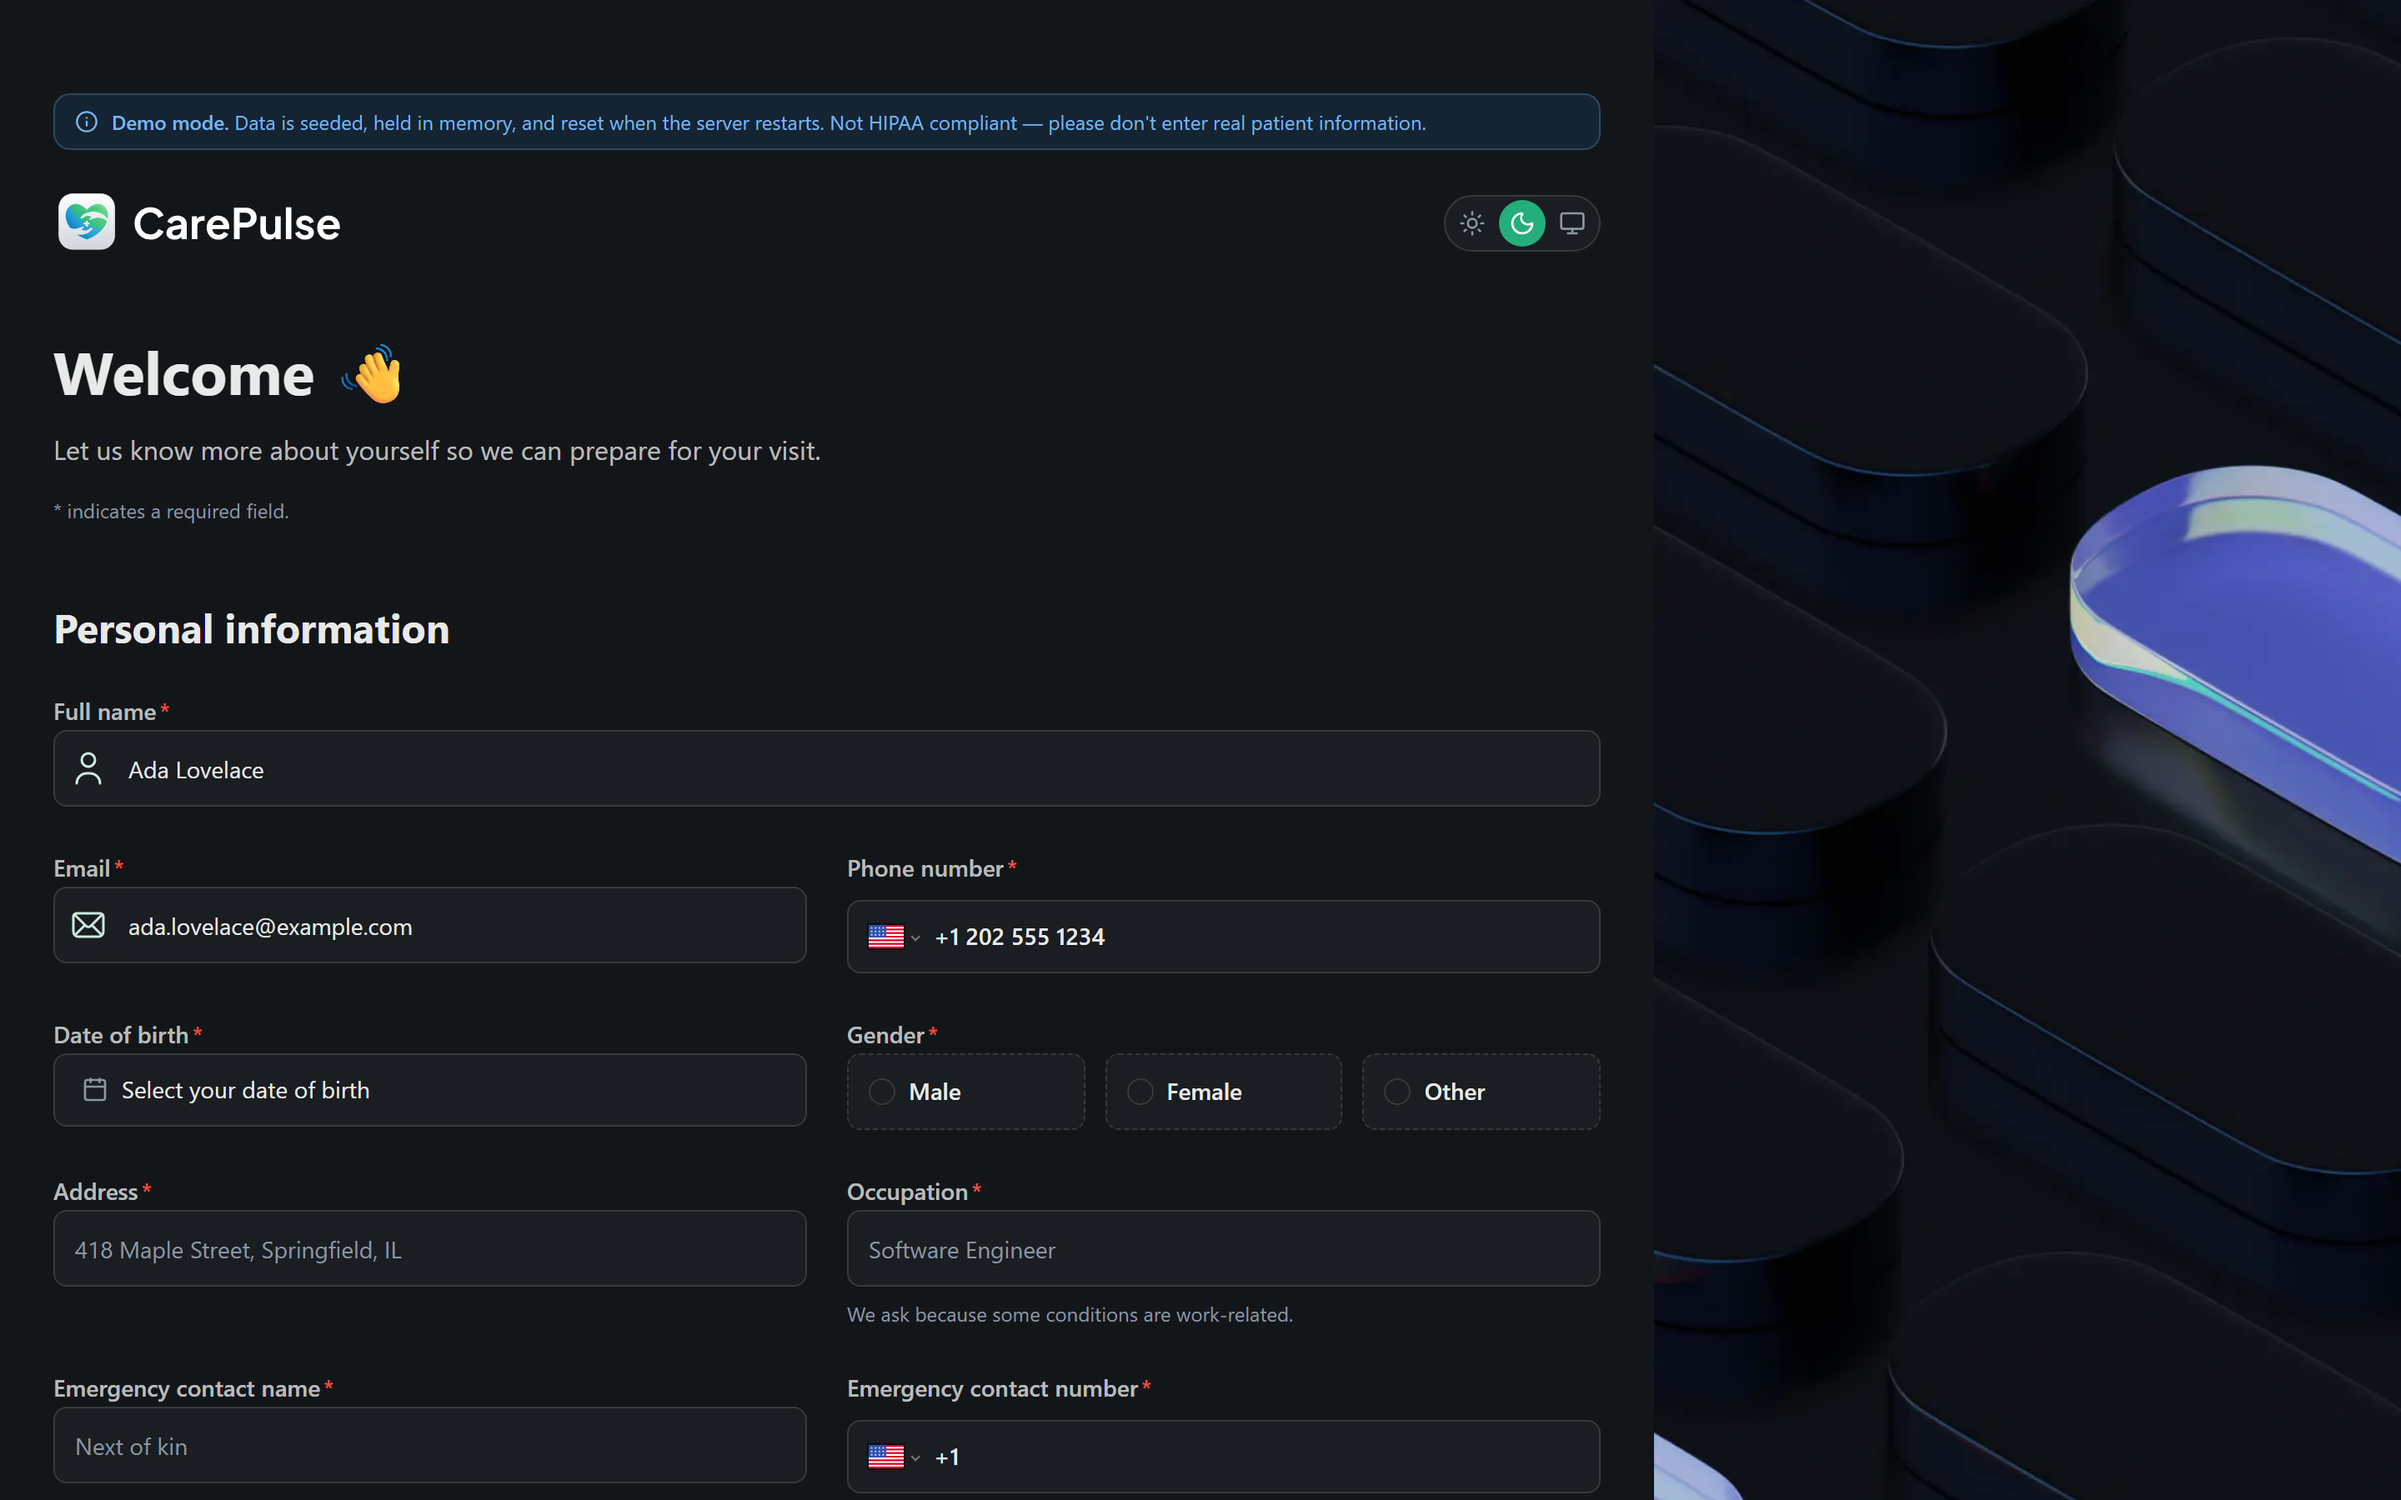
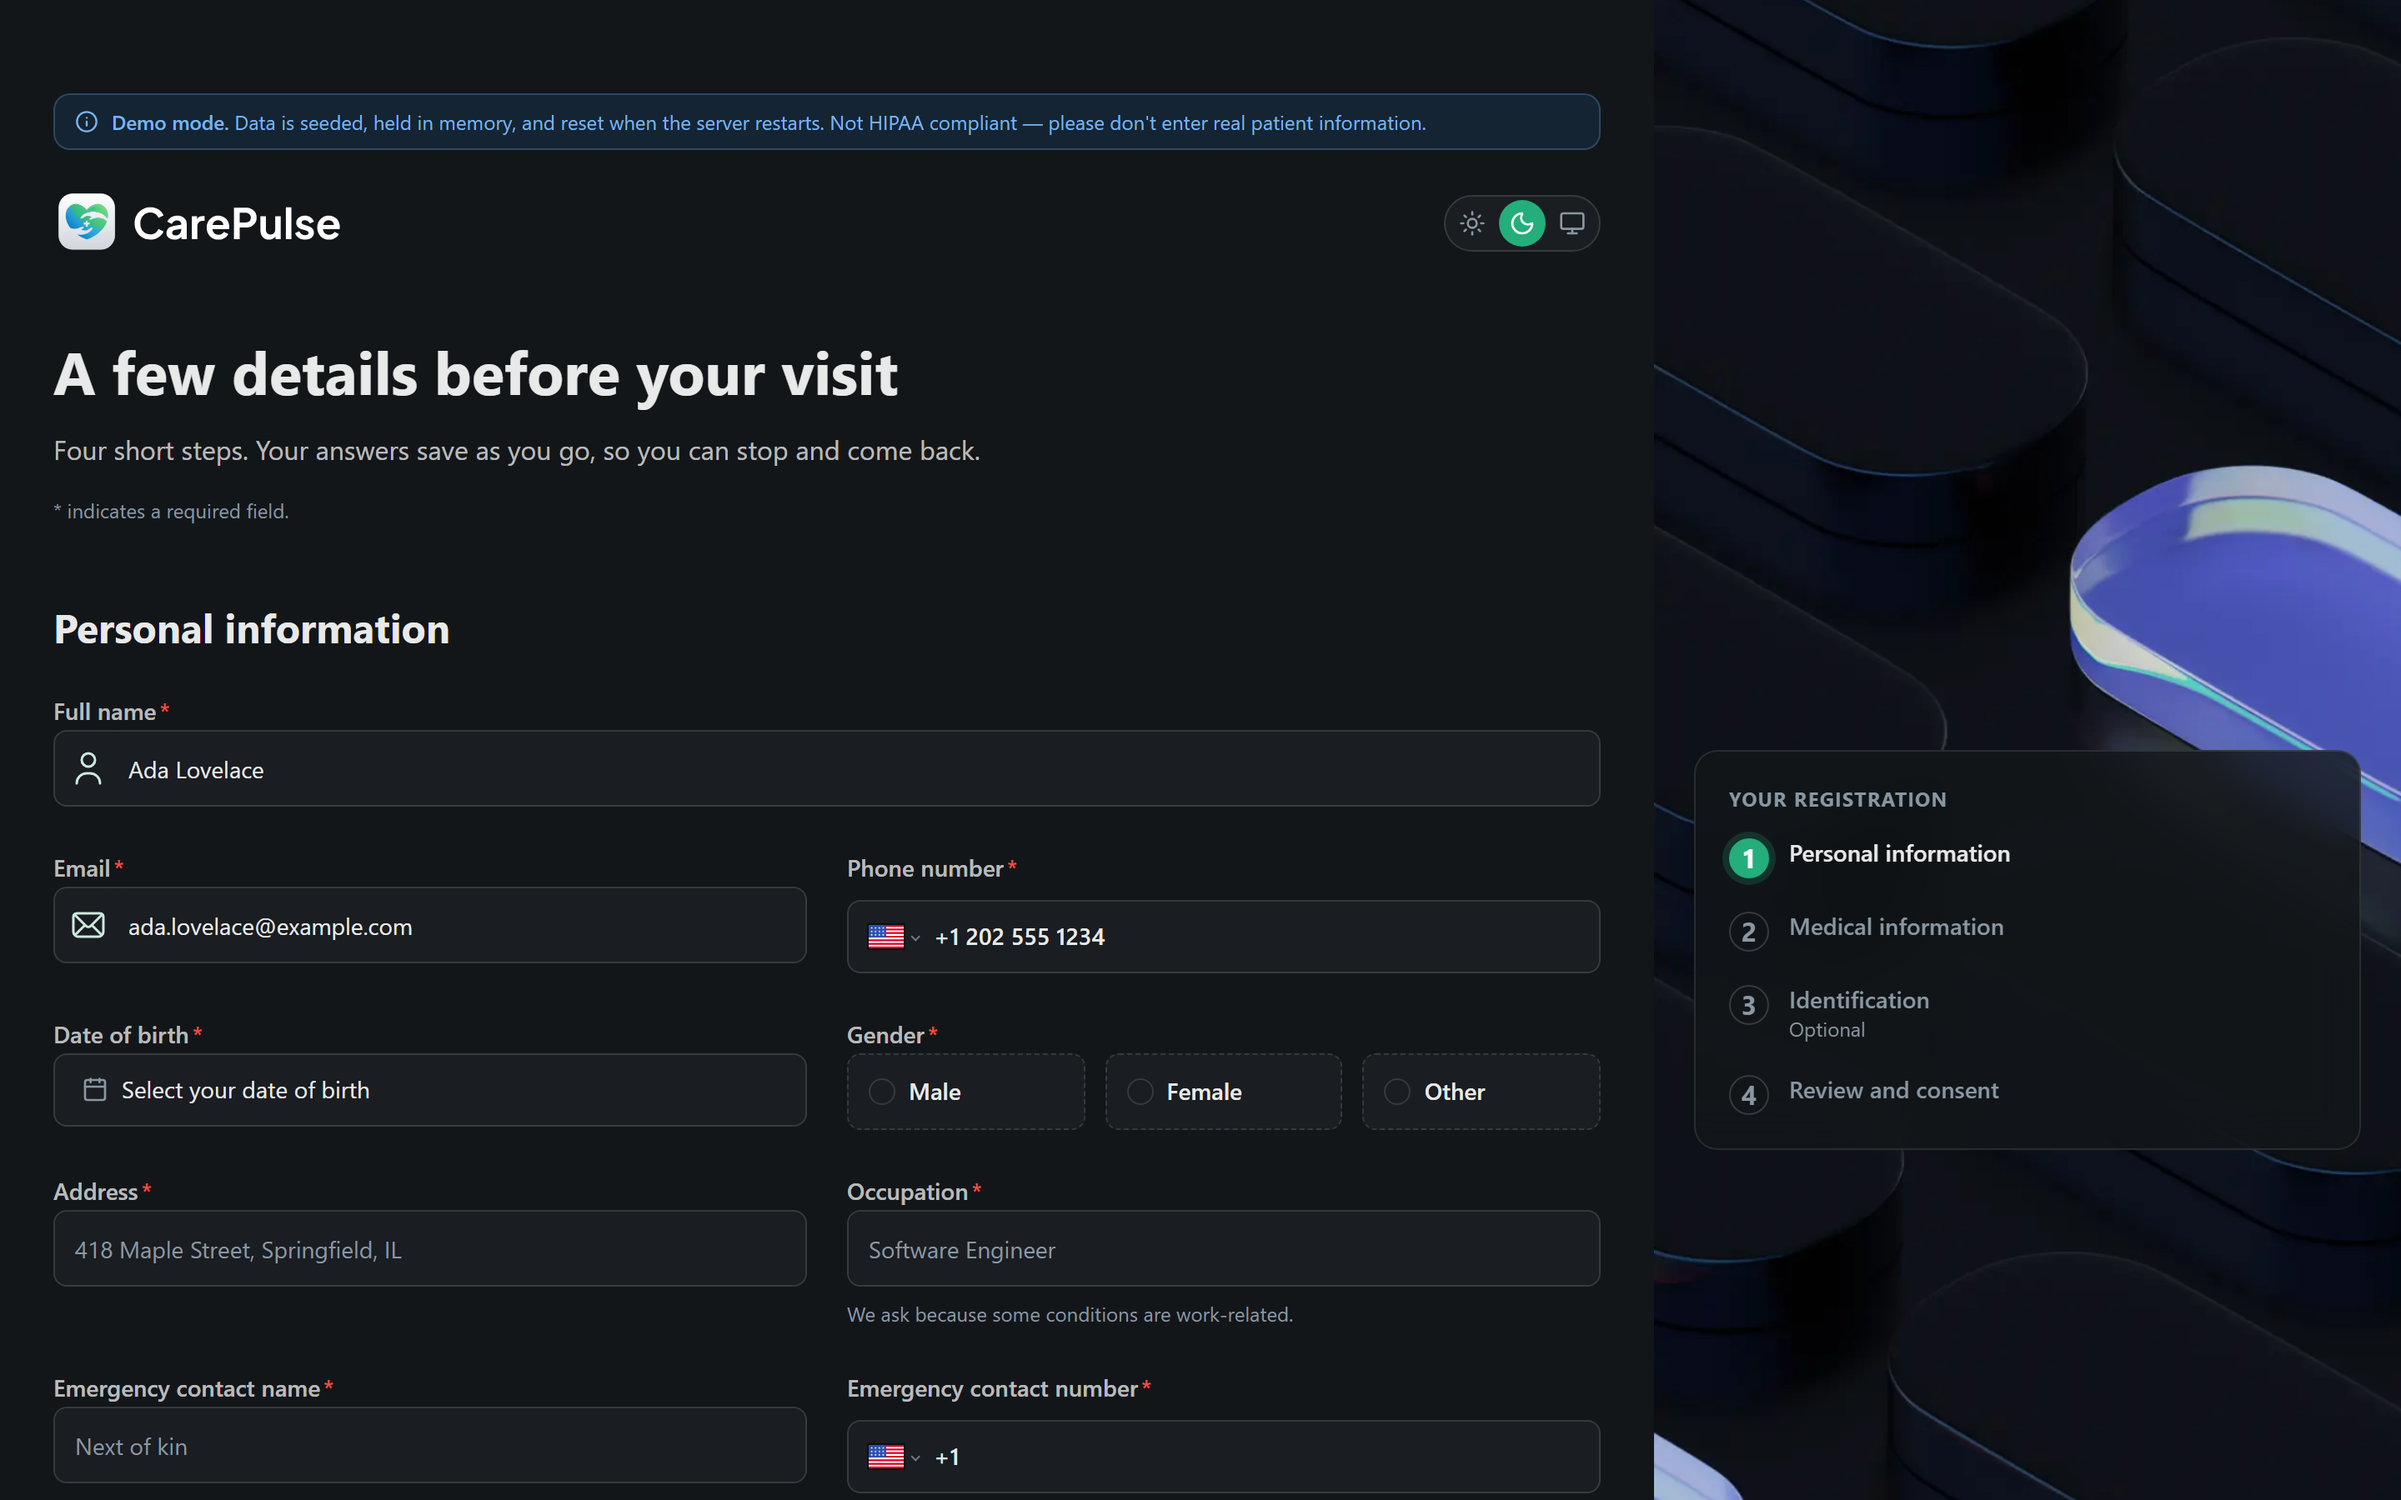
refactor(register): revise form copy for tone and clarity
Errors now say what to do rather than what was wrong, and the intro sets the
expectation of four steps with saved progress. The consent messages are left
alone: they state a consequence precisely, which is what a consent gate needs.

Nine assertions across four test files pinned the old strings (three welcome-
heading checks, two phone/email primitives, address and physician messages,
and the physician message appearing twice in form-error-summary.test.tsx via
both the inline message and the error-summary button) — all updated in this
commit. Screenshots 03/04/05 regenerated because they show the new intro
heading; other screenshots that only drifted by seeded demo date were left
untouched.

diff --git a/tests/e2e/flows.spec.ts b/tests/e2e/flows.spec.ts
@@ -49,7 +49,9 @@ test.describe("patient flow", () => {
     await page.getByRole("button", { name: /get started/i }).click();
 
     await expect(page).toHaveURL(/\/patients\/[^/]+\/register$/);
-    await expect(page.getByRole("heading", { name: /welcome/i })).toBeVisible();
+    await expect(
+      page.getByRole("heading", { name: /a few details before your visit/i }),
+    ).toBeVisible();
   });
 
   test("onboarding shows a field error for a bad phone number", async ({
@@ -62,7 +64,9 @@ test.describe("patient flow", () => {
     await phoneInput(page).fill("123");
     await page.getByRole("button", { name: /get started/i }).click();
 
-    await expect(page.getByText(/invalid phone number/i)).toBeVisible();
+    await expect(
+      page.getByText(/enter a phone number including the country code/i),
+    ).toBeVisible();
     // Still on the same page: a failed submit must not navigate.
     await expect(page).toHaveURL("/");
   });
@@ -333,7 +337,9 @@ test.describe("patient flow", () => {
     // An entry for a field on the step already showing must move focus
     // straight to that control, not merely acknowledge the click.
     await page
-      .getByRole("button", { name: /address must be at least 5 characters/i })
+      .getByRole("button", {
+        name: /enter your full address, including the town/i,
+      })
       .click();
     await expect(page.getByLabel("Address")).toBeFocused();
   });

diff --git a/lib/validation/patient.ts b/lib/validation/patient.ts
@@ -26,7 +26,7 @@ export const PatientFormValidation = z.object({
   // the schema's *input* type to `unknown`, which then refuses to line up with
   // react-hook-form's generics.
   birthDate: z
-    .date({ error: "Date of birth is required" })
+    .date({ error: "Select your date of birth" })
     .refine((date) => date <= new Date(), {
       error: "Date of birth cannot be in the future",
     }),
@@ -34,7 +34,7 @@ export const PatientFormValidation = z.object({
   address: z
     .string()
     .trim()
-    .min(5, { error: "Address must be at least 5 characters" })
+    .min(5, { error: "Enter your full address, including the town" })
     .max(500, { error: "Address must be at most 500 characters" }),
   occupation: z
     .string()
@@ -45,7 +45,9 @@ export const PatientFormValidation = z.object({
   emergencyContactNumber: phoneSchema,
 
   // Medical
-  primaryPhysician: z.string().min(2, { error: "Select a doctor" }),
+  primaryPhysician: z
+    .string()
+    .min(2, { error: "Choose the doctor you would like to see" }),
   insuranceProvider: z
     .string()
     .trim()

diff --git a/tests/form-error-summary.test.tsx b/tests/form-error-summary.test.tsx
@@ -102,8 +102,8 @@ describe("FormErrorSummary", () => {
     // per REGISTER_STEPS — the reverse of the trigger order above.
     const buttons = screen.getAllByRole("button");
     expect(buttons.map((button) => button.textContent)).toEqual([
-      "Invalid email address",
-      "Select a doctor",
+      "Enter an email address, like jane@example.com",
+      "Choose the doctor you would like to see",
       "You must consent to privacy in order to proceed",
     ]);
   });
@@ -190,7 +190,11 @@ describe("clicking a summary entry", () => {
     // "primaryPhysician" belongs to the medical step; the wizard is on
     // review. Its SELECT field is not in the DOM yet — StepAwareFields only
     // mounts it once `step` actually becomes "medical".
-    fireEvent.click(screen.getByRole("button", { name: "Select a doctor" }));
+    fireEvent.click(
+      screen.getByRole("button", {
+        name: "Choose the doctor you would like to see",
+      }),
+    );
 
     const trigger = await screen.findByRole("combobox", {
       name: /primary care physician/i,

diff --git a/lib/validation/primitives.ts b/lib/validation/primitives.ts
@@ -6,16 +6,18 @@ export const PHONE_PATTERN = /^\+\d{10,15}$/;
 export const phoneSchema = z
   .string()
   .refine((value) => PHONE_PATTERN.test(value), {
-    error: "Invalid phone number",
+    error: "Enter a phone number including the country code",
   });
 
 export const personNameSchema = z
   .string()
   .trim()
-  .min(2, { error: "Name must be at least 2 characters" })
+  .min(2, { error: "Enter the full name" })
   .max(50, { error: "Name must be at most 50 characters" });
 
-export const emailSchema = z.email({ error: "Invalid email address" });
+export const emailSchema = z.email({
+  error: "Enter an email address, like jane@example.com",
+});
 
 /**
  * A consent checkbox that must be ticked.

diff --git a/tests/validation.test.ts b/tests/validation.test.ts
@@ -34,7 +34,9 @@ describe("UserFormValidation", () => {
       phone: "2025550143",
     });
     expect(result.success).toBe(false);
-    expect(result.error?.issues[0]?.message).toBe("Invalid phone number");
+    expect(result.error?.issues[0]?.message).toBe(
+      "Enter a phone number including the country code",
+    );
   });
 
   it("rejects a one-character name", () => {
@@ -52,7 +54,9 @@ describe("UserFormValidation", () => {
       email: "not-an-email",
       phone: "+12025550143",
     });
-    expect(result.error?.issues[0]?.message).toBe("Invalid email address");
+    expect(result.error?.issues[0]?.message).toBe(
+      "Enter an email address, like jane@example.com",
+    );
   });
 });
 

diff --git a/components/forms/RegisterForm.tsx b/components/forms/RegisterForm.tsx
@@ -201,9 +201,10 @@ export default function RegisterForm() {
         className="flex-1 space-y-12"
       >
         <section className="space-y-4">
-          <h1 className="header">Welcome 👋</h1>
+          <h1 className="header">A few details before your visit</h1>
           <p className="text-foreground/80">
-            Let us know more about yourself so we can prepare for your visit.
+            Four short steps. Your answers save as you go, so you can stop and
+            come back.
           </p>
           <p className="text-12-regular text-muted-foreground">
             <span aria-hidden="true">*</span> indicates a required field.

diff --git a/tests/responsive-shots.spec.ts b/tests/responsive-shots.spec.ts
@@ -80,7 +80,9 @@ async function reachRegistrationForm(page: Page, width: number) {
   await expect(page).toHaveURL(/\/patients\/[^/]+\/register$/, {
     timeout: 15_000,
   });
-  await expect(page.getByRole("heading", { name: /welcome/i })).toBeVisible();
+  await expect(
+    page.getByRole("heading", { name: /a few details before your visit/i }),
+  ).toBeVisible();
 }
 
 const REGISTER_STEP_IDS = ["personal", "medical", "identification", "review"] as const;

diff --git a/tests/e2e/responsive.spec.ts b/tests/e2e/responsive.spec.ts
@@ -118,7 +118,9 @@ async function reachRegistrationForm(page: Page, width: number) {
   await expect(page).toHaveURL(/\/patients\/[^/]+\/register$/, {
     timeout: 15_000,
   });
-  await expect(page.getByRole("heading", { name: /welcome/i })).toBeVisible();
+  await expect(
+    page.getByRole("heading", { name: /a few details before your visit/i }),
+  ).toBeVisible();
 }
 
 test.beforeEach(async ({ request }) => {
